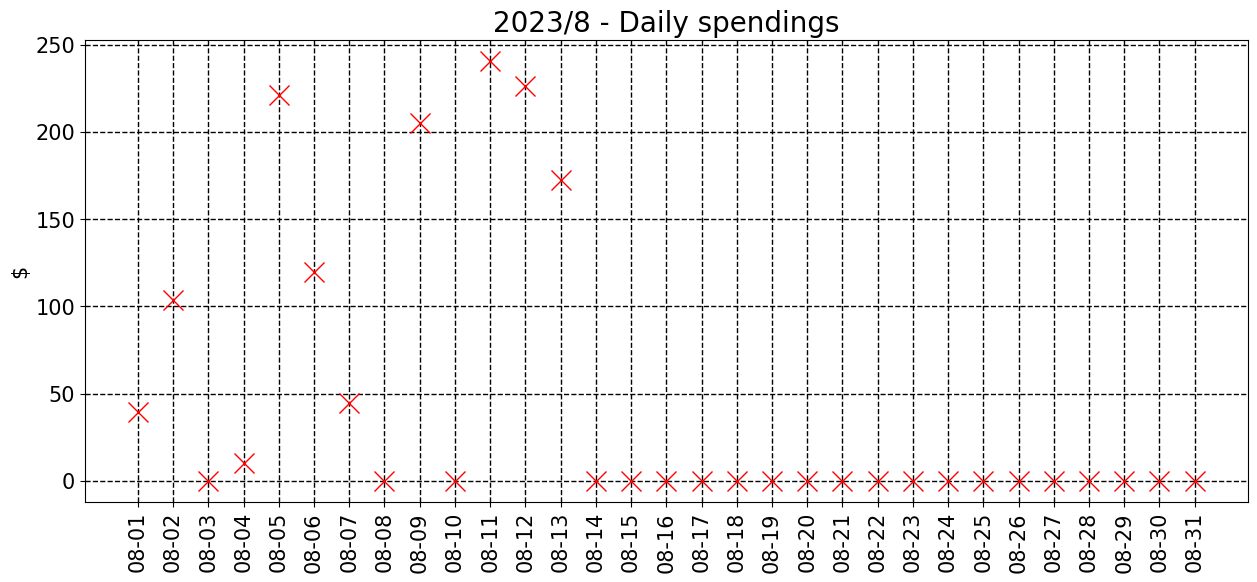
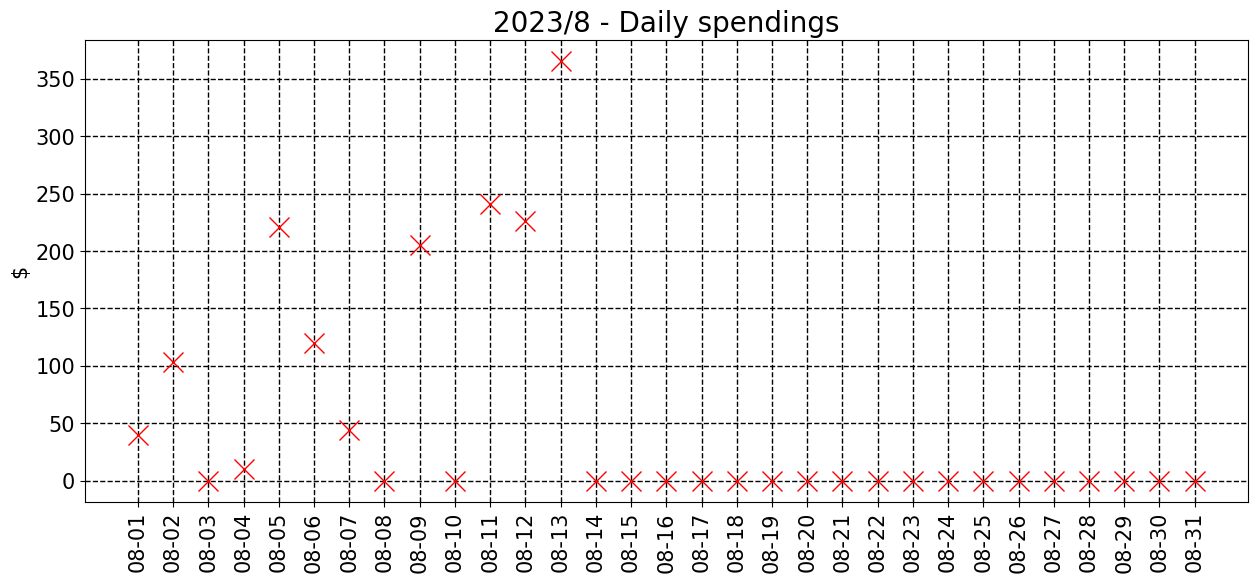
commit from python

diff --git a/README.md b/README.md
@@ -7,7 +7,7 @@ __________________________________
 <sub><sup>
 | Spent | Avg daily | End of month projection | Spent since 2023/7 |
 |---|---|---|---|
-| $1343.0  |  $103.3  | $3202.0  |  $1732.0  |
+| $1536.0  |  $109.7  | $3401.0  |  $1925.0  |
 </sub></sup>
 __________________________________
 ![graph_8_sum](graph_8_sum.png)
